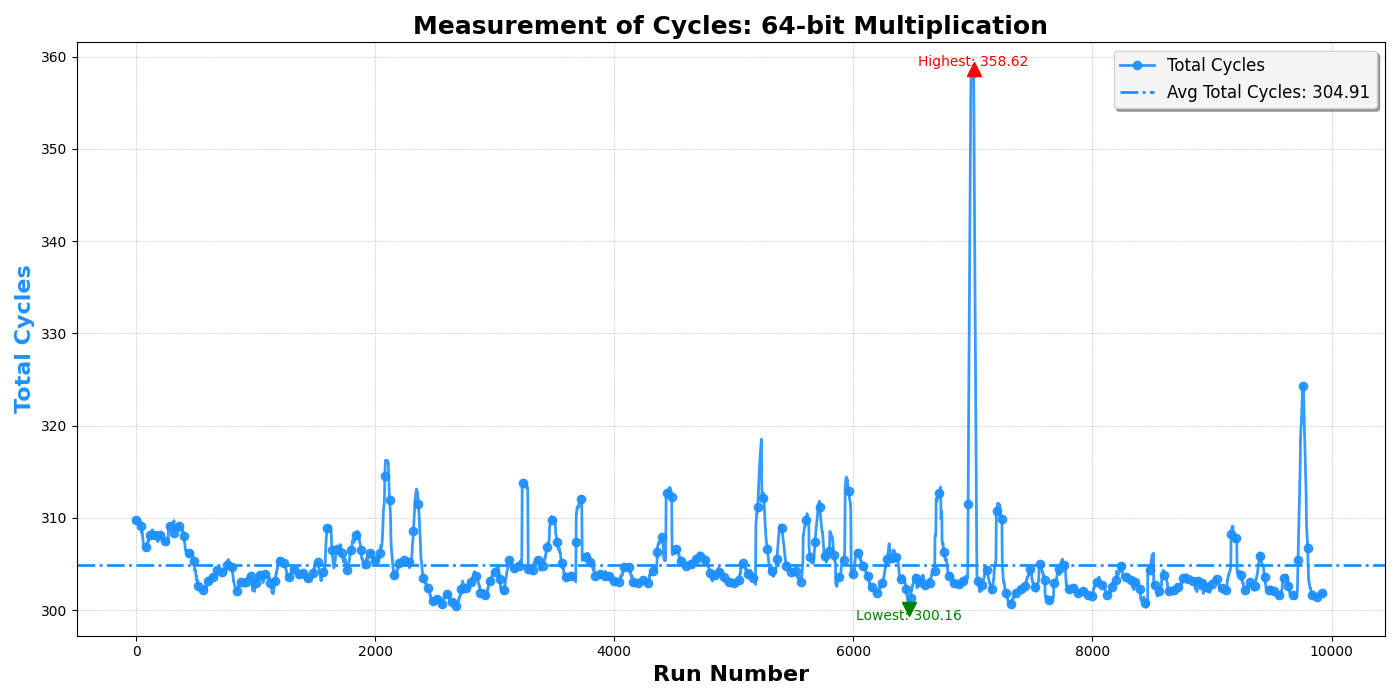
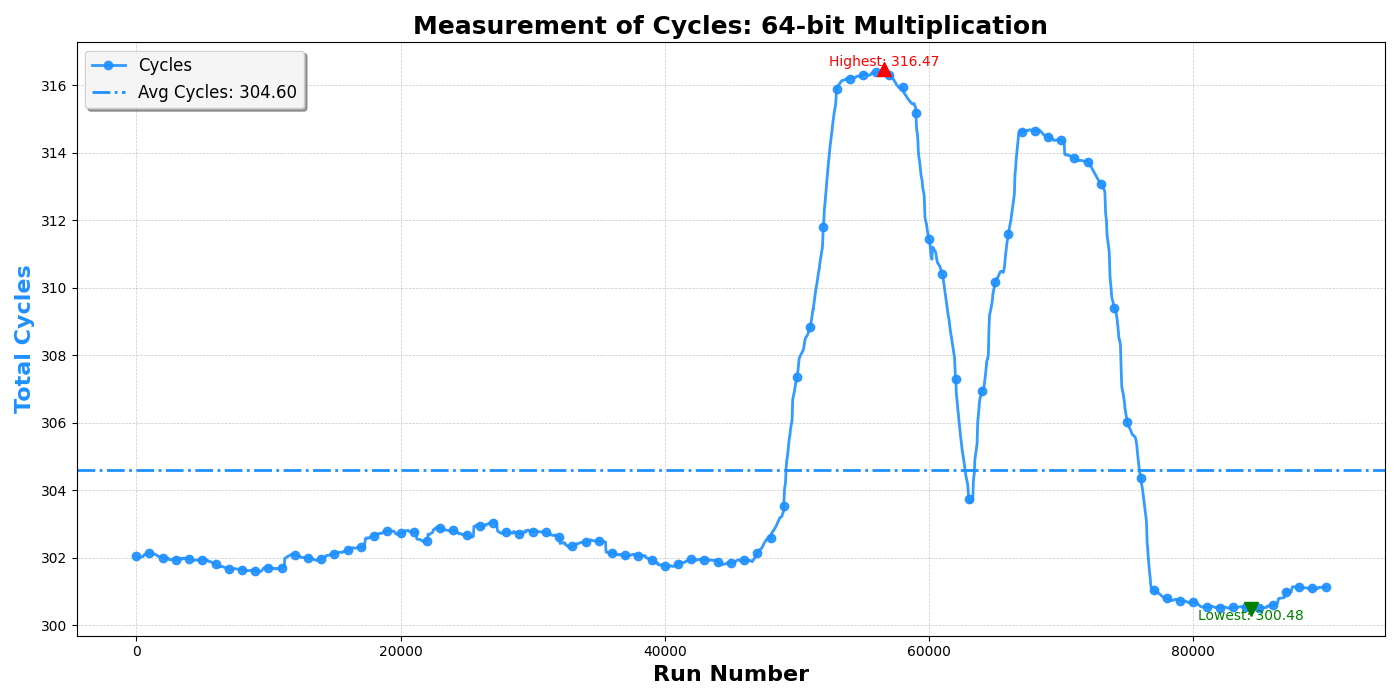
Laptop240228v3 - Re-Measurement

diff --git a/view/measure_cycle.py b/view/measure_cycle.py
@@ -12,9 +12,14 @@ average_function1 = np.mean(function1_speeds)
 average_function2 = np.mean(function2_speeds)
 
 # Rolling mean for smoothing
-window_size = 50
+window_size = 100000
 function1_smooth = np.convolve(function1_speeds, np.ones(window_size)/window_size, mode='valid')
 function2_smooth = np.convolve(function2_speeds, np.ones(window_size)/window_size, mode='valid')
+
+lowest_point_smooth = min(function1_smooth)
+highest_point_smooth = max(function1_smooth)
+lowest_index_smooth = np.argmin(function1_smooth)
+highest_index_smooth = np.argmax(function1_smooth)
 
 # Set up the figure and axes for a prettier graph
 fig, ax1 = plt.subplots(figsize=(14, 7), dpi=100)
@@ -22,9 +27,16 @@ fig, ax1 = plt.subplots(figsize=(14, 7), dpi=100)
 # Create a second y-axis for the other metric
 ax2 = ax1.twinx()
 
+ax1.plot(lowest_index_smooth, lowest_point_smooth, 'v', color='green', markersize=10)
+ax1.text(lowest_index_smooth, lowest_point_smooth, f'Lowest: {lowest_point_smooth:.2f}', color='green', va='top', ha='center')
+
+# Mark the highest point
+ax1.plot(highest_index_smooth, highest_point_smooth, '^', color='red', markersize=10)
+ax1.text(highest_index_smooth, highest_point_smooth, f'Highest: {highest_point_smooth:.2f}', color='red', va='bottom', ha='center')
+
 # Plot the smoothed data with distinct designs
-ax1.plot(function1_smooth, color='dodgerblue', label='Total Cycles', alpha=0.9, linewidth=2, linestyle='-', marker='o', markevery=40)
-ax2.plot(function2_smooth, color='crimson', label='Cycles per Word', alpha=0.9, linewidth=2, linestyle='-', marker='^', markevery=40)
+ax1.plot(function1_smooth, color='dodgerblue', label='Total Cycles', alpha=0.9, linewidth=2, linestyle='-', marker='o', markevery=10000)
+ax2.plot(function2_smooth, color='crimson', label='Cycles per Word', alpha=0.9, linewidth=2, linestyle='-', marker='^', markevery=10000)
 
 # Add horizontal lines to indicate the average values
 ax1.axhline(average_function1, color='dodgerblue', linestyle='dashdot', linewidth=2, label=f'Avg Total cycles: {average_function1:.2f} cycle')
@@ -34,12 +46,12 @@ ax2.axhline(average_function2, color='crimson', linestyle='dashdot', linewidth=2
 ax1.set_ylabel('Total Cycles', fontsize=16, fontweight='bold', color='dodgerblue')
 ax2.set_ylabel('Cycles per Word', fontsize=16, fontweight='bold', color='crimson')
 ax1.set_xlabel('Run Number', fontsize=16, fontweight='bold')
-ax1.set_title('Measurement of Cycles: 32-bit Addition', fontsize=18, fontweight='bold')
+ax1.set_title('Measurement of Cycles: 32-bit P-256 Multiplication', fontsize=18, fontweight='bold')
 
 # Combine legends
 lines, labels = ax1.get_legend_handles_labels()
 lines2, labels2 = ax2.get_legend_handles_labels()
-ax1.legend(lines + lines2, labels + labels2, loc='upper right', frameon=True, framealpha=0.9, shadow=True, fancybox=True, fontsize=12)
+ax1.legend(lines + lines2, labels + labels2, loc='upper center', frameon=True, framealpha=0.9, shadow=True, fancybox=True, fontsize=12)
 
 # Customizing the grid and layout
 ax1.grid(True, linestyle='--', linewidth=0.5, alpha=0.7)

diff --git a/src/main.c b/src/main.c
@@ -10,8 +10,8 @@ int main(void) {
     // word src2[SIZE];
     // word dst[SIZE] = { 0x00, };
     field src1, src2;
-    field dst;
-    // field dst[2];
+    // field dst;
+    field dst[2];
 
     stringToWord(src1, opA);
     stringToWord(src2, opB);
@@ -22,11 +22,12 @@ int main(void) {
     // addition_p256(dst, src1, src2);
     // subtraction_p256(dst, src1, src2);
     
-    multiplication_p256(dst, src1, src2);
+    // multiplication_p256(dst, src1, src2);
     // printData(dst);
     // multiplication_p256_test();
 
     // multiplication_ps2_test();
+    multiplication_ps2(dst, src1, src2);
     // printData(dst[1]);
     // printData(dst[0]);
     // for (int i = 0; i < 16; i++) {
@@ -71,38 +72,38 @@ int main(void) {
 
 
 // /* === Test for Accuracy === */
-    addition_p256_test();
-    subtraction_p256_test();
-    multiplication_p256_test();
+    // addition_p256_test();
+    // subtraction_p256_test();
+    // multiplication_p256_test();
     // multiplication_ps_test();
     // multiplication_ps2_test();
 
 
 /* === Measurement of Cycles === */
     // u64 cycles;
-    // for (u32 i = 0; i < 1200; i++) {
+    // for (u32 i = 0; i < 120000; i++) {
     //     assign_rand(src1, SIZE);
     //     assign_rand(src2, SIZE);
     //     // cycles = measure_cycles(addition_p256, dst, src1, src2);
     //     // cycles = measure_cycles(subtraction_p256, dst, src1, src2);
     //     cycles = measure_cycles(multiplication_p256, dst, src1, src2);
-    //     if (i >= 100 && i < 1100) {
+    //     if (i >= 10000 && i < 110000) {
     //         printf("%" PRIu64 "\n", cycles);
-    //         printf("%" PRIu64 "\n", cycles / (u64)SIZE);
+    //         // printf("%" PRIu64 "\n", cycles / (u64)SIZE);
     //     }
     // }
 
-    // u64 cycles;
-    // for (u32 i = 0; i < 12000; i++) {
-    //     assign_rand(src1, SIZE);
-    //     assign_rand(src2, SIZE);
-    //     // cycles = measure_cycles2(multiplication_single, dst, src1, src2);
-    //     // cycles = measure_cycles2(multiplication_os, dst, src1, src2);
-    //     cycles = measure_cycles2(multiplication_ps, dst, src1, src2);
-    //     if (i >= 1000 && i < 11000) {
-    //         printf("%" PRIu64 "\n", cycles);
-    //     }
-    // }
+    u64 cycles;
+    for (u32 i = 0; i < 12000; i++) {
+        assign_rand(src1, SIZE);
+        assign_rand(src2, SIZE);
+        // cycles = measure_cycles2(multiplication_single, dst, src1, src2);
+        // cycles = measure_cycles2(multiplication_os, dst, src1, src2);
+        cycles = measure_cycles2(multiplication_ps, dst, src1, src2);
+        if (i >= 1000 && i < 11000) {
+            printf("%" PRIu64 "\n", cycles);
+        }
+    }
 
     // field t0, t1; // Define two fields, each with SIZE elements
     // word *ptr_t0, *ptr_t1; // Define pointers to elements of type u32

diff --git a/view/measure_cycle_single.py b/view/measure_cycle_single.py
@@ -10,7 +10,7 @@ function1_speeds = [float(data[i].strip()) for i in range(0, len(data), 1)]
 average_function1 = np.mean(function1_speeds)
 
 # Rolling mean for smoothing
-window_size = 50
+window_size = 1000
 function1_smooth = np.convolve(function1_speeds, np.ones(window_size)/window_size, mode='valid')
 
 # Find the lowest and highest points of the smoothed data
@@ -23,7 +23,7 @@ highest_index_smooth = np.argmax(function1_smooth)
 fig, ax1 = plt.subplots(figsize=(14, 7), dpi=100)
 
 # Plot the smoothed data with distinct designs
-ax1.plot(function1_smooth, color='dodgerblue', label='Cycles', alpha=0.9, linewidth=2, linestyle='-', marker='o', markevery=40)
+ax1.plot(function1_smooth, color='dodgerblue', label='Cycles', alpha=0.9, linewidth=2, linestyle='-', marker='o', markevery=100)
 
 # Mark and directly annotate the lowest and highest points of the smoothed data
 # Mark the lowest point
@@ -44,7 +44,7 @@ ax1.set_title('Measurement of Cycles: 64-bit Multiplication', fontsize=18, fontw
 
 # Combine legends
 lines, labels = ax1.get_legend_handles_labels()
-ax1.legend(lines, labels, loc='upper right', frameon=True, framealpha=0.9, shadow=True, fancybox=True, fontsize=12)
+ax1.legend(lines, labels, loc='upper left', frameon=True, framealpha=0.9, shadow=True, fancybox=True, fontsize=12)
 
 # Customizing the grid and layout
 ax1.grid(True, linestyle='--', linewidth=0.5, alpha=0.7)

diff --git a/include/secp256r1_config.h b/include/secp256r1_config.h
@@ -62,7 +62,7 @@ typedef uint64_t    u64;
 #endif
 
 // Define this to force 32-bit mode in development
-#define FORCE_32_BIT
+// #define FORCE_32_BIT
 
 // Simplified check for 32-bit or forced 32-bit mode
 #if defined(FORCE_32_BIT) || !defined(_WIN64) && !defined(__x86_64__) && !defined(__ppc64__)

diff --git a/README.md b/README.md
@@ -11,12 +11,16 @@
 
 ### My Performance
 - Number of Samples:
-  - Addition: 1,000,000,000 (1B)
-  - Subtraction: 1,000,000,000 (1B)
-  - Multiplication (reduction): 100,000,000 (100M)
+  - Addition: 10,000,000,000 (10B)
+  - Subtraction: 10,000,000,000 (10B)
+  - Multiplication (reduction): 10,000,000,000 (10B)
+  - Multiplication I : 100,000,000 (100M)
+  - Multiplication II: 100,000,000 (100M)
 
-| Operation \ Platform | 32-bit | 64-bit |
+| Operation \ Platform | 32-bit (cycle) | 64-bit (cycle) |
 | --- | --- | --- |
-| P-256 Addition | 22.23 cycle | 14.52 cycle |
-| P-256 Subtraction | 22.23 cycle | 14.52 cycle |
-| P-256 Multiplication | - cycle | - cycle |
+| P-256 Addition $\mathbb{F}_2^{256}\times\mathbb{F}_2^{256}\to\mathbb{F}_2^{256}$ | 22.15 | 14.38 |
+| P-256 Subtraction $\mathbb{F}_2^{256}\times\mathbb{F}_2^{256}\to\mathbb{F}_2^{256}$ | 23.86 | 16.00 |
+| Multiplication I $\mathbb{F}_2^{256}\times\mathbb{F}_2^{256}\to\mathbb{F}_2^{512}$ | 4878.74 | 915.33 |
+| Multiplication II $\mathbb{F}_2^{256}\times\mathbb{F}_2^{256}\to\mathbb{F}_2^{512}$ | 1091.18 | 304.60 |
+| P-256 Multiplication $\mathbb{F}_2^{256}\times\mathbb{F}_2^{256}\to\mathbb{F}_2^{256}$ | 1393.11 | 521.08 |
